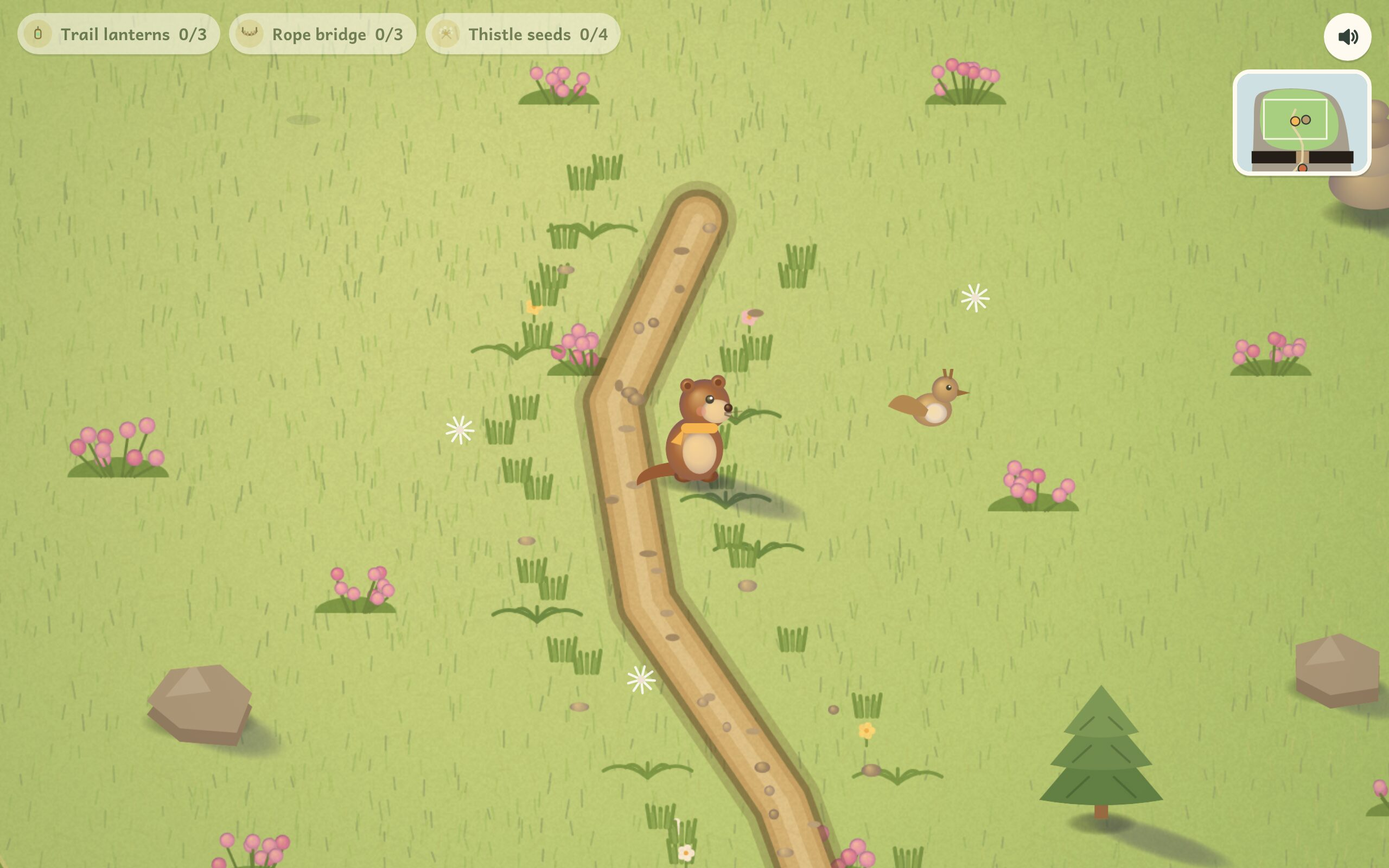
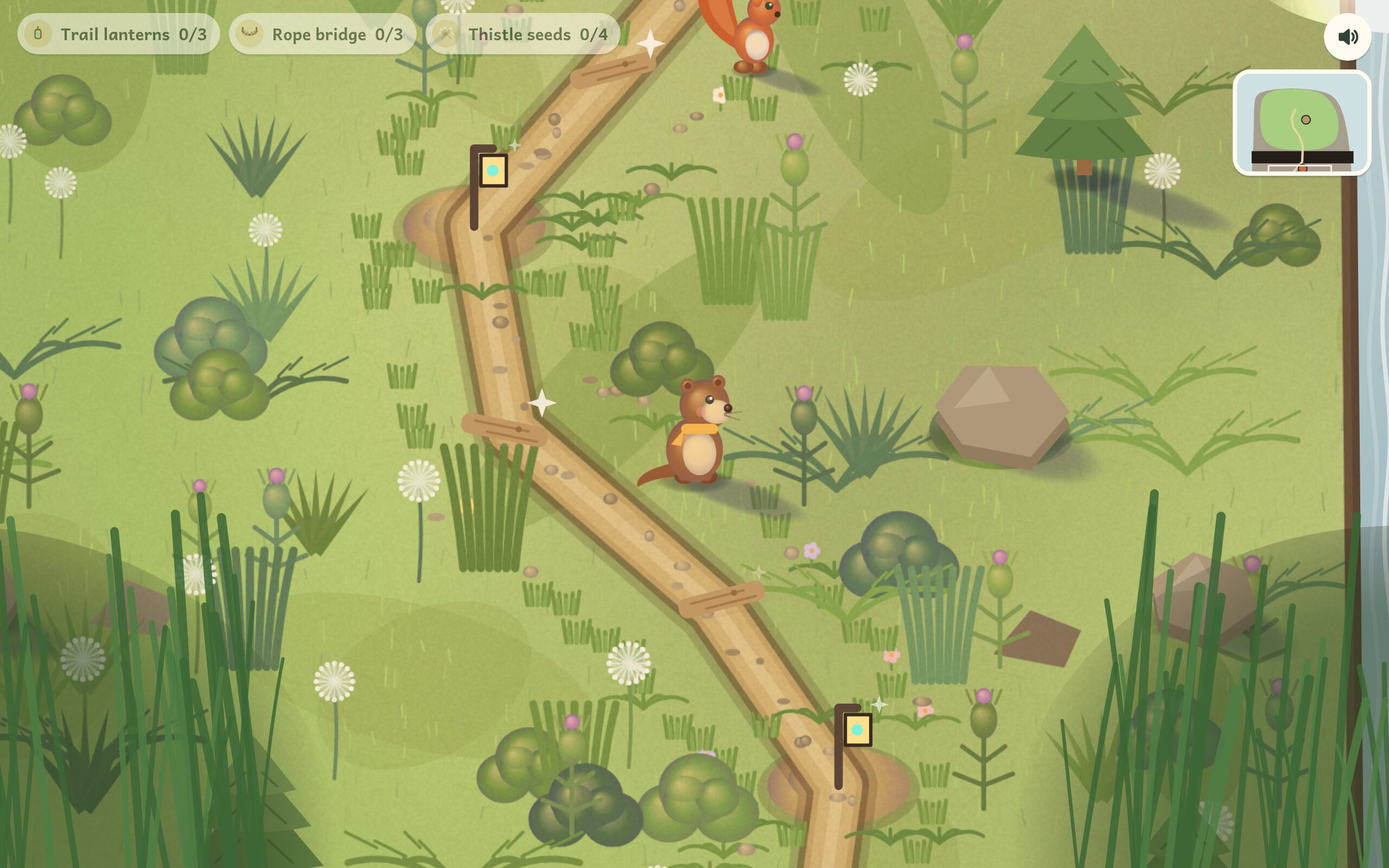
Highland: lush, layered Puffin Rock-style overgrowth
Per the Puffin Rock reference — a path threading through dense, varied
vegetation with nooks and crannies — the slope was still too sparse and
single-plane. Add a cut-paper plant kit (fan fronds, reed clumps, round
bushes, dandelion-clock blooms, thistles, ferns) and scatter it densely
over the slope, depth-sorted: smaller and paler up the screen (far),
bigger and darker toward the bottom (near), so the climb reads as a path
winding through layered overgrowth. The plants crowd the path's edges
(the nooks), with the trail kept clear, plus a few grassy burrow-mound
nooks tucked beside it. Baked into the ground, so it's free per frame.
(Left Day 1 / the island as-is, per the brief.) No errors.

Claude-Session: https://claude.ai/code/session_01T6a2bmevT4fqcgfXDC9gkZ

diff --git a/stories/pips-island/highland.js b/stories/pips-island/highland.js
@@ -159,6 +159,54 @@ function hFern(x,y){ ctx.strokeStyle=rng(Math.round(x+y))()>0.5?'#5f9150':'#6f9e
 function hBloom(x,y){ const c=['#f6c6d0','#ffe08a','#d9c8f2','#fff6e8'][Math.floor(rng(Math.round(x*3+y))()*4)];
   ctx.strokeStyle='#6f9e55'; ctx.lineWidth=1.6; ctx.beginPath(); ctx.moveTo(x,y); ctx.lineTo(x,y-9); ctx.stroke();
   for (let k=0;k<5;k++){ const a=k/5*Math.PI*2; circ(x+Math.cos(a)*3,y-9+Math.sin(a)*3,2.2,c); } circ(x,y-9,1.4,'#f4b85a'); }
+
+// ---- lush, varied "cut-paper" plants, layered for depth (Puffin Rock-style overgrowth) ----
+const H_GREENS = ['#5f8a4c','#6f9e55','#7fae5f','#4f7a5c','#6a9e78','#7aa860','#55836a'];
+function plFan(x,y,s,c){ for (let i=-3;i<=3;i++){ ctx.save(); ctx.translate(x,y); ctx.rotate(i*0.23); ctx.fillStyle = i%2?c:lit(c,0.12);
+  ctx.beginPath(); ctx.moveTo(-3.5*s,0); ctx.quadraticCurveTo(-2*s,-28*s,0,-47*s); ctx.quadraticCurveTo(2*s,-28*s,3.5*s,0); ctx.closePath(); ctx.fill(); ctx.restore(); } }
+function plBush(x,y,s,c){ for (const [dx,dy,r] of [[-13,-7,15],[13,-7,15],[0,-18,18],[-5,-12,11],[9,-14,10]]) ell(x+dx*s,y+dy*s,r*s,r*0.9*s,c); ell(x-6*s,-18*s+y,9*s,6*s,lit(c,0.3)); }
+function plBloom(x,y,s,c){ ctx.strokeStyle=lit(c,-0.3); ctx.lineWidth=1.8*s; ctx.lineCap='round'; ctx.beginPath(); ctx.moveTo(x,y); ctx.quadraticCurveTo(x+2*s,y-24*s,x,y-44*s); ctx.stroke();
+  const hx=x, hy=y-48*s; circ(hx,hy,8*s,'rgba(240,246,238,.45)'); ctx.strokeStyle='rgba(236,244,234,.85)'; ctx.lineWidth=1*s;
+  for (let i=0;i<16;i++){ const a=i/16*Math.PI*2; ctx.beginPath(); ctx.moveTo(hx,hy); ctx.lineTo(hx+Math.cos(a)*9*s,hy+Math.sin(a)*9*s); ctx.stroke(); }
+  for (let i=0;i<16;i++){ const a=i/16*Math.PI*2; circ(hx+Math.cos(a)*9*s,hy+Math.sin(a)*9*s,1.3*s,'#fbfdf8'); } }
+function plThistle(x,y,s,c){ ctx.strokeStyle=lit(c,-0.3); ctx.lineWidth=2.4*s; ctx.lineCap='round'; ctx.beginPath(); ctx.moveTo(x,y); ctx.lineTo(x,y-42*s); ctx.stroke();
+  for (const i of [-1,1]){ ctx.beginPath(); ctx.moveTo(x,y-12*s); ctx.lineTo(x+i*15*s,y-18*s); ctx.stroke(); ctx.beginPath(); ctx.moveTo(x,y-24*s); ctx.lineTo(x+i*11*s,y-32*s); ctx.stroke(); }
+  ell(x,y-46*s,7*s,10*s,lit(c,0.15)); ctx.strokeStyle=lit(c,0.35); ctx.lineWidth=1.4*s;
+  for (let i=-2;i<=2;i++){ ctx.beginPath(); ctx.moveTo(x+i*3*s,y-54*s); ctx.lineTo(x+i*4.5*s,y-61*s); ctx.stroke(); } circ(x,y-58*s,4*s,'#c98fc4'); }
+function plSpike(x,y,s,c){ ctx.strokeStyle=c; ctx.lineWidth=4*s; ctx.lineCap='round'; for (let i=-3;i<=3;i++){ ctx.beginPath(); ctx.moveTo(x+i*4*s,y); ctx.quadraticCurveTo(x+i*5*s,y-32*s,x+i*7*s,y-56*s); ctx.stroke(); } }
+function plFern(x,y,s,c){ ctx.strokeStyle=c; ctx.lineCap='round'; for (let i=-2;i<=2;i++){ if (!i) continue; ctx.lineWidth=3*s; ctx.beginPath(); ctx.moveTo(x,y); ctx.quadraticCurveTo(x+i*13*s,y-22*s,x+i*26*s,y-15*s); ctx.stroke();
+  ctx.lineWidth=1.4*s; for (let k=1;k<=3;k++){ const t=k/4, px=x+i*26*s*t, py=y-22*s*Math.sin(t*1.9); ctx.beginPath(); ctx.moveTo(px,py); ctx.lineTo(px+i*7*s,py-7*s); ctx.stroke(); } } }
+const PLANT_FNS = [plFan,plBush,plBloom,plThistle,plSpike,plFern];
+// a grassy mound with little arched burrow holes — a nook along the path
+function hNook(x,y,s){ ell(x,y+5,48*s,20*s,'rgba(38,56,34,.2)');
+  ell(x,y,46*s,26*s,'#6f9e55'); ell(x-10*s,y-9*s,30*s,15*s,'#7fae5f'); ell(x+16*s,y-6*s,16*s,8*s,'#86b064');
+  for (let i=-1;i<=1;i++){ const hx=x+i*22*s, hy=y+4*s; ctx.fillStyle='#2b211c'; ctx.beginPath(); ctx.moveTo(hx-9*s,hy); ctx.quadraticCurveTo(hx-9*s,hy-18*s,hx,hy-18*s); ctx.quadraticCurveTo(hx+9*s,hy-18*s,hx+9*s,hy); ctx.closePath(); ctx.fill();
+    ctx.fillStyle='rgba(255,246,214,.12)'; ctx.beginPath(); ctx.ellipse(hx,hy-4*s,6*s,8*s,0,0,Math.PI*2); ctx.fill(); }
+  ctx.strokeStyle='#5f9150'; ctx.lineWidth=2.4*s; ctx.lineCap='round'; for (let i=-3;i<=3;i++){ ctx.beginPath(); ctx.moveTo(x+i*9*s,y-16*s); ctx.lineTo(x+i*10*s,y-27*s); ctx.stroke(); } }
+// Dense, varied, depth-sorted foliage over the slope: smaller/paler far up, bigger/darker near the bottom, so
+// the climb reads as a path threading through layered overgrowth with little nooks and crannies.
+function drawHighlandFoliage(){
+  const R = rng(808), spots = [];
+  for (let i=0;i<680;i++){
+    const x = 170 + R()*1360, y = 250 + R()*2210;
+    if (!insidePoly(MOUNTAIN, x, y, 18) || inGorge(x,y)) continue;
+    if (Math.abs(x - fallX(y)) < FALL.w/2 + 34 && y > FALL.lip - 50) continue;   // keep out of the waterfall
+    const nearPath = onTrailPath(x,y) || inClearing(x,y);
+    if (nearPath && R() < 0.9) continue;                                          // path stays mostly clear
+    if (insidePoly(CROWN, x, y, 12) && R() < 0.5) continue;                        // crown a bit more open
+    spots.push([x,y]);
+  }
+  spots.sort((a,b) => a[1]-b[1]);                                                  // far (top) first → near (bottom) on top
+  for (const [x,y] of spots){
+    const depth = Math.max(0, Math.min(1, (y-250)/2210));                          // 0 far .. 1 near
+    const s = 0.45 + depth*0.95 + R()*0.3;
+    let c = H_GREENS[Math.floor(R()*H_GREENS.length)];
+    c = depth > 0.58 ? mixHex(c, '#2c4034', (depth-0.58)*0.75) : mixHex(c, '#cfe0d4', (0.5-depth)*0.5);   // near darker, far hazier
+    PLANT_FNS[Math.floor(R()*PLANT_FNS.length)](x, y, s, c);
+  }
+  // a few burrow nooks tucked beside the path
+  for (const [x,y,s] of [[612,1150,1],[1000,1452,0.9],[560,2150,1.05],[988,860,0.85]]) if (!onTrailPath(x,y)) hNook(x,y,s);
+}
 function drawHighlandStatic(){
   drawHighlandSky();
   const L = LOOK.light;
@@ -229,6 +277,8 @@ function drawHighlandStatic(){
       if (k<0.52) hTuft(x,y); else if (k<0.74) ell(x,y,3+Rf()*3,2.2+Rf()*2,Rf()>0.5?'#b0a890':'#9a927e'); else if (k<0.9) hFern(x,y); else hBloom(x,y); } } }
   // a few tufts around the clearings too
   for (const [cx,cy,r] of H_CLEARINGS){ for (let a=0;a<Math.PI*2;a+=0.5){ if (Rf()>0.6) continue; const x=cx+Math.cos(a)*(r*0.7+Rf()*16), y=cy+Math.sin(a)*(r*0.5+Rf()*12); if (inGorge(x,y)) continue; Rf()<0.6?hTuft(x,y):hFern(x,y); } }
+  // lush, layered overgrowth filling the slope and crowding the path's edges
+  drawHighlandFoliage();
 
   // the gorge: a dark chasm with a rocky rim
   ctx.save(); ctx.beginPath(); ctx.rect(0,GORGE.y0-4,HW,GORGE.y1-GORGE.y0+8); ctx.clip();
